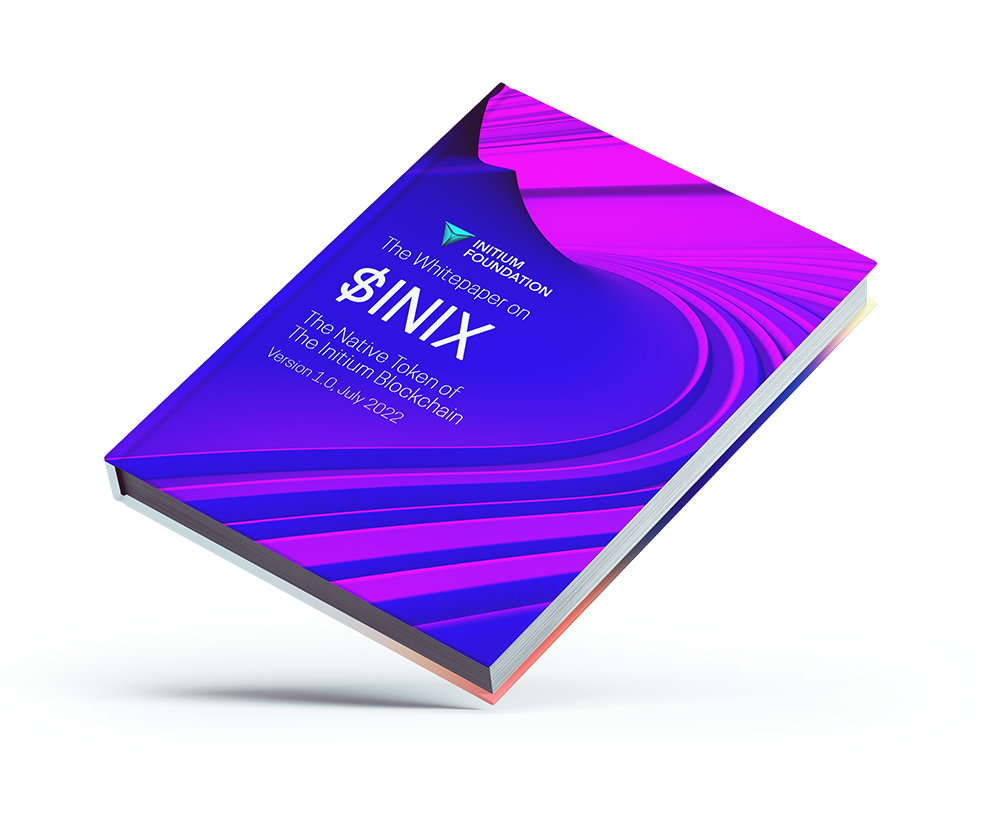
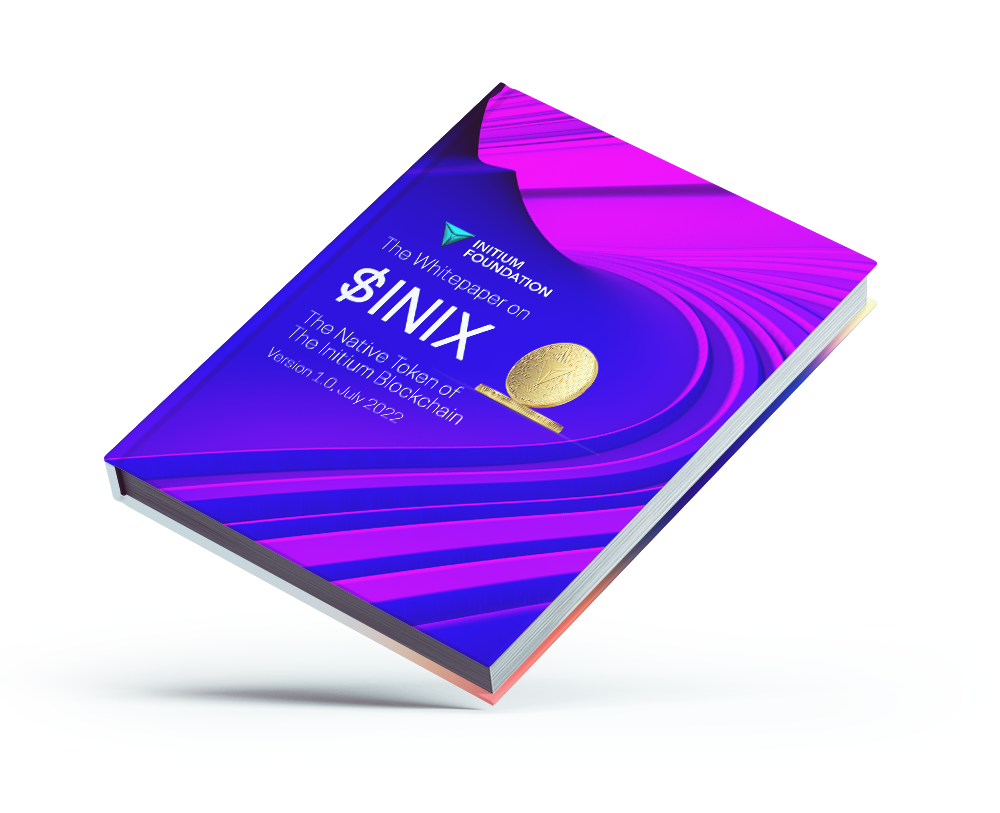
GitBook: [#60] No subject

Changed region(s): [[0.279, 0.2768, 0.62, 0.5535], [0.651, 0.3383, 0.775, 0.3998], [0.434, 0.615, 0.558, 0.6458]]

diff --git a/pre-gen/3.1-introduction.md b/pre-gen/3.1-introduction.md
@@ -2,6 +2,8 @@
 
 $INIX has a capped-supply of 1,130,720,000 (1,130.72M) tokens. Lepton is the smallest denomination of $INIX. One lepton equals 0.000000000001 or $$10^{-12}$$  $INIX. One $INIX is $$10^{12}$$leptons. Lepton is used to calculate the transaction fee on the Initium network.
 
+![$INIX, the Initium Native Token.](../.gitbook/assets/initium-coin-Small.png)
+
 The $INIX TGE will mint 500M $INIX tokens. This supply is called the Initial Supply, also known as the Total Current Supply during the Pre-Genesis era. The remaining 630,720,000 $INIX tokens will be minted during the Post-Genesis era according to the Inflation Schedule (section [4.4](../post-gen/4.4-inflation-schedule.md)) based on the Minting Mechanism discussed in section [4.3](../post-gen/4.3-minting-mechanism.md). The minting mechanism is a permanent _Regula_ in the Initium Constitution.&#x20;
 
 Section 3.2 discusses the distribution of the Initial Supply among the contributors to the Initium protocol, section 3.3 discusses the allocation of $INIX tokens to the sales events, section 3.4 discusses the allocations of Initial Supply to the ecosystem in detail, section 3.5 discusses the allocations to the Initium Team (Prime Team), and section 3.6 discusses the staking mechanism and the pertaining rewards during the Pre-Genesis era.
